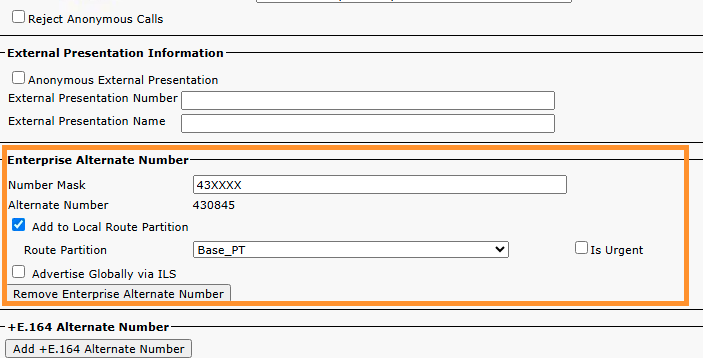
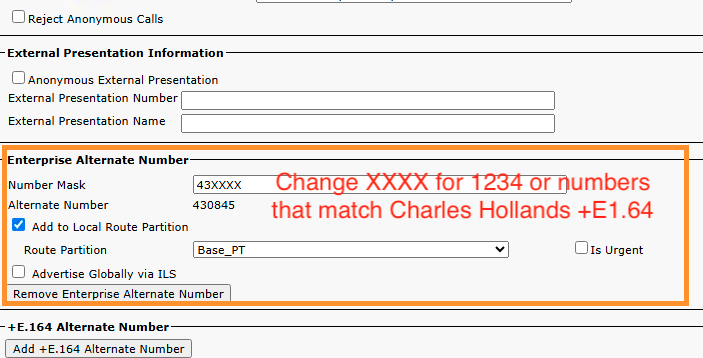
Update DN Overlapt Guidance

Changed region(s): [[0.3883, 0.4609, 0.926, 0.6145]]

diff --git a/docs/lab-site-2-new-york-1-hour-15-minutes.md b/docs/lab-site-2-new-york-1-hour-15-minutes.md
@@ -254,6 +254,10 @@ Now we must check the trunk on Cisco UCM side to route calls between our on prem
 ![](assets/docx-image-077.png)
 
 9\. Next, add click the “**Add** **Enterprise Alternate Number**” button and use a number mask of 43**XXXX** – Where XXXX is the last four digits of **Charles Hollands number.** We are configuring a simulated extension number overlap here between a UCM User and a Webex Calling user, which we will test later. Remember to set your Route Partition too!  
+
+!!! important
+      You must switch out the XXXX when you configure this Enterprise Alternate number! Do not just type X's into the box, switch out the X's to **Match the last four digits of Charles full number** 
+      
 ![](assets/image-2.png)
 
 10\. Now select User Management > End user.  
